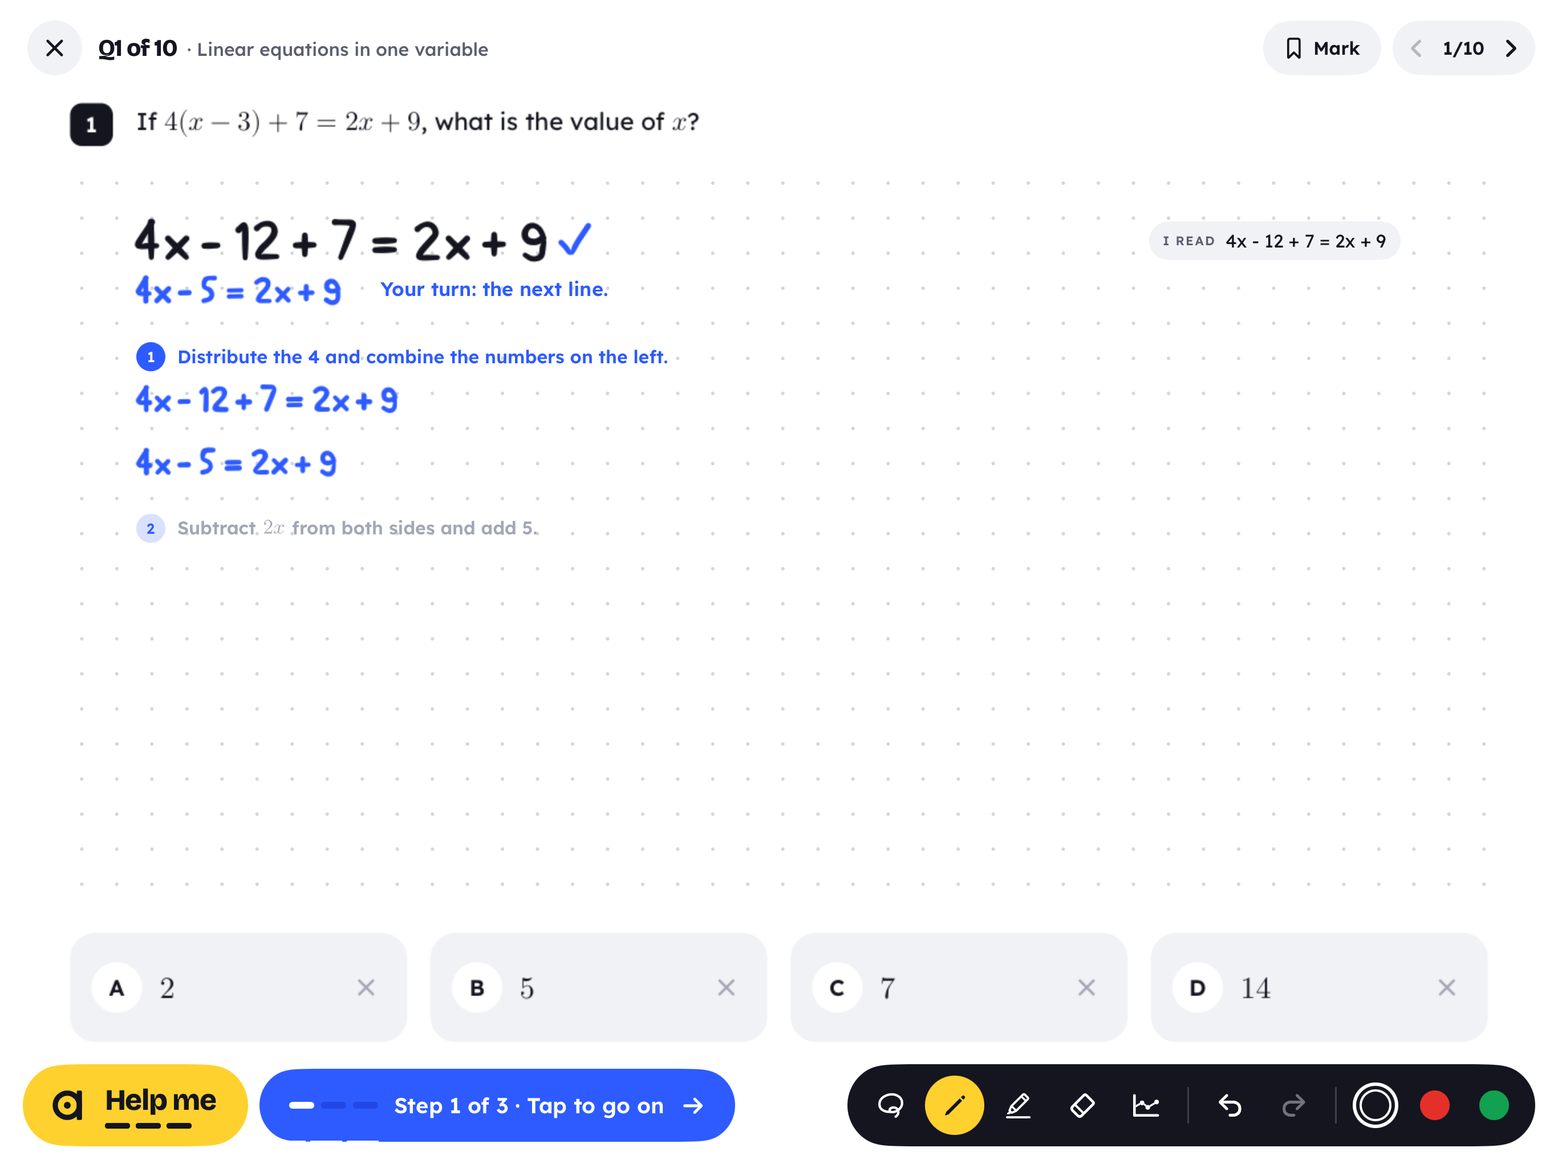
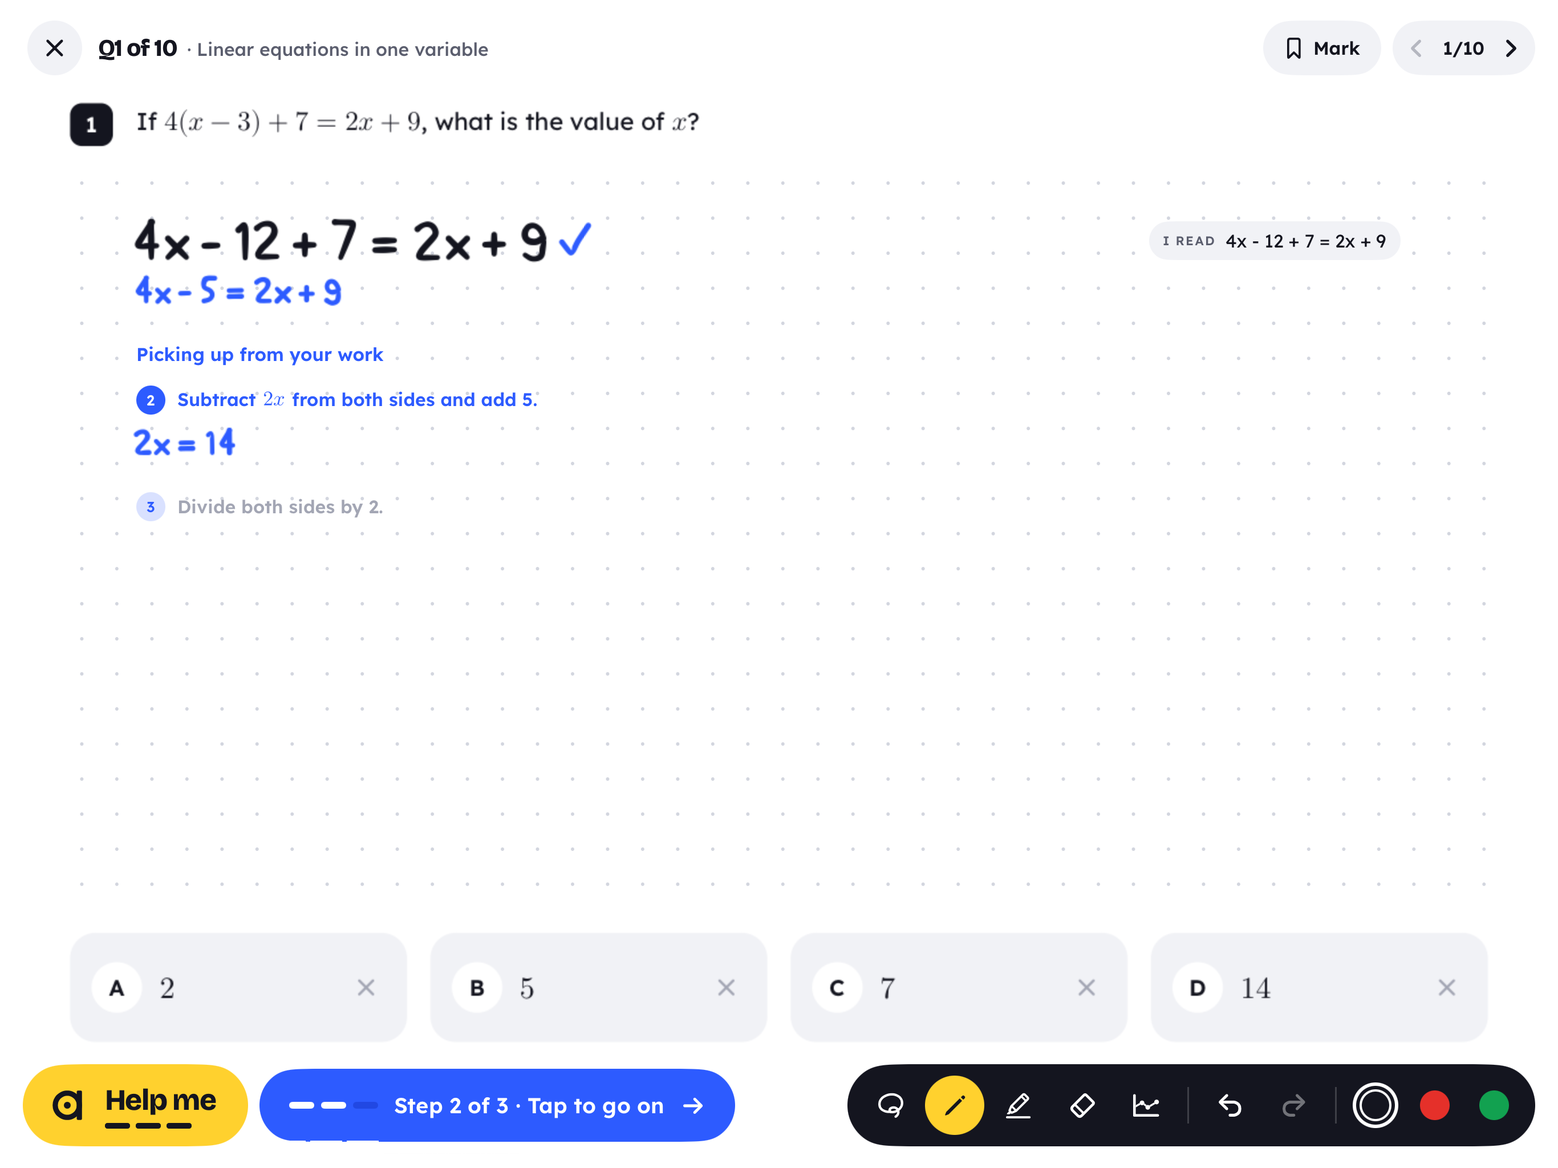
feat(sat2): the walk-through picks up from the work (leaves out the steps on the page: the student's matched lines and rung 2's step; 'Picking up from your work'; rung 2's 'Your turn' goes); SAT home's Right today and the deck's cards name the due skills (today.correct, reviews_due_skills from 43f8b

Changed region(s): [[0.0622, 0.2812, 0.4356, 0.4688], [0.3111, 0.2188, 0.3734, 0.25]]

diff --git a/ios/Packages/AgathonSAT/Sources/AgathonSATCore/Model/SATReplies.swift b/ios/Packages/AgathonSAT/Sources/AgathonSATCore/Model/SATReplies.swift
@@ -131,8 +131,11 @@ public struct SATProgress: Codable, Hashable, Sendable {
         public var tutorUsed: Int
         public var cap: Int
         public var unlimited: Bool
+        /// right today (v2, optional: nil from a server without it)
+        public var correct: Int?
 
-        public init(answered: Int, tutorUsed: Int, cap: Int, unlimited: Bool) {
+        public init(answered: Int, tutorUsed: Int, cap: Int, unlimited: Bool, correct: Int? = nil) {
+            self.correct = correct
             self.answered = answered
             self.tutorUsed = tutorUsed
             self.cap = cap
@@ -142,7 +145,7 @@ public struct SATProgress: Codable, Hashable, Sendable {
         enum CodingKeys: String, CodingKey {
             case answered
             case tutorUsed = "tutor_used"
-            case cap, unlimited
+            case cap, unlimited, correct
         }
 
         public init(from decoder: Decoder) throws {
@@ -151,6 +154,7 @@ public struct SATProgress: Codable, Hashable, Sendable {
             tutorUsed = try c.decodeIfPresent(Int.self, forKey: .tutorUsed) ?? 0
             cap = try c.decodeIfPresent(Int.self, forKey: .cap) ?? SATLimits.freeTutorPerDay
             unlimited = try c.decodeIfPresent(Bool.self, forKey: .unlimited) ?? false
+            correct = (try? c.decodeIfPresent(Int.self, forKey: .correct)) ?? nil
         }
 
         /// Free tutor questions left today (nil with Unlimited).
@@ -183,10 +187,13 @@ public struct SATProgress: Codable, Hashable, Sendable {
     /// a server without the deck)
     public var reviewsDue: Int?
     public var reviewsWaiting: Int?
+    /// the skills of the reviews due today, the soonest first (v2, optional): the deck's cards name them
+    public var reviewsDueSkills: [String]?
 
     public init(answered: Int = 0, correct: Int = 0, byDomain: [DomainCount] = [], bySkill: [SkillCount] = [], streakDays: Int = 0,
                 today: Today = Today(answered: 0, tutorUsed: 0, cap: SATLimits.freeTutorPerDay, unlimited: false), estimate: Estimate? = nil,
-                reviewsDue: Int? = nil, reviewsWaiting: Int? = nil) {
+                reviewsDue: Int? = nil, reviewsWaiting: Int? = nil, reviewsDueSkills: [String]? = nil) {
+        self.reviewsDueSkills = reviewsDueSkills
         self.reviewsDue = reviewsDue
         self.reviewsWaiting = reviewsWaiting
         self.answered = answered
@@ -206,6 +213,20 @@ public struct SATProgress: Codable, Hashable, Sendable {
         case today, estimate
         case reviewsDue = "reviews_due"
         case reviewsWaiting = "reviews_waiting"
+        case reviewsDueSkills = "reviews_due_skills"
+    }
+
+    /// A skill of a due review: its name, or `{"skill": name}`.
+    struct DueSkill: Decodable {
+        let name: String?
+        enum K: String, CodingKey { case skill }
+        init(from decoder: Decoder) throws {
+            if let s = try? decoder.singleValueContainer().decode(String.self) {
+                name = s
+            } else {
+                name = try? decoder.container(keyedBy: K.self).decode(String.self, forKey: .skill)
+            }
+        }
     }
 
     public init(from decoder: Decoder) throws {
@@ -219,6 +240,7 @@ public struct SATProgress: Codable, Hashable, Sendable {
         estimate = try? c.decodeIfPresent(Estimate.self, forKey: .estimate)
         reviewsDue = (try? c.decodeIfPresent(Int.self, forKey: .reviewsDue)) ?? nil
         reviewsWaiting = (try? c.decodeIfPresent(Int.self, forKey: .reviewsWaiting)) ?? nil
+        reviewsDueSkills = ((try? c.decodeIfPresent([Lossy<DueSkill>].self, forKey: .reviewsDueSkills)) ?? nil)?.compactMap { $0.value?.name }
     }
 
     /// A domain's count (zero when none answered).

diff --git a/ios/Agathon/Screens/SAT/SATSessionModel.swift b/ios/Agathon/Screens/SAT/SATSessionModel.swift
@@ -76,6 +76,8 @@ final class SATSessionModel: ObservableObject {
         /// where the next step goes (page units)
         var cursor: Vec2
         var column: Int = 0
+        /// steps already on the page (the student's, or the tutor's at rung 2): not drawn again
+        var skip: Set<Int> = []
     }
 
     @Published private(set) var phase: Phase = .loading
@@ -883,10 +885,25 @@ final class SATSessionModel: ObservableObject {
         if practice.index != i { show(i) }
         practice.updateLadder(at: i) { $0.reach(.walkthrough) }
         let layout = printer(i).layout
+        let steps = practice.questions[i].solution.steps
+        // the steps on the page already are not drawn again (the student's, matched to the bank's,
+        // and the one given at rung 2); the walk picks up at the first one still to do
+        let read = tutorOnHere ? tutor?.loop.readLines.map(\.latex) ?? [] : []
+        let skip = SATHintLadder.stepsOnThePage(steps, studentLines: read, written: practice.items[i].ladder.written)
+        let first = steps.indices.first { !skip.contains($0) } ?? steps.count
+        guard first < steps.count else {
+            notice = SATCopy.noMoreSteps
+            return
+        }
         // from the top of the stem's column, or under what is written there already
-        let start = Vec2(style.stemX, columnBottom(on: screen).map { $0 + 40 } ?? layout.workTop + 16)
-        walk = Walk(screen: screen, question: i, shown: 0, count: practice.questions[i].solution.steps.count, cursor: start)
-        words.removeAll { $0.screen == screen && $0.id.hasPrefix("walk:") }
+        var start = Vec2(style.stemX, columnBottom(on: screen).map { $0 + 40 } ?? layout.workTop + 16)
+        // the walk's pill says what to do now: rung 2's "Your turn" goes
+        words.removeAll { $0.screen == screen && ($0.id.hasPrefix("walk:") || $0.kind == .yourTurn) }
+        if first > 0 {
+            words.append(PageWords(id: "walk:\(i):pickup", screen: screen, kind: .pickup, text: SATCopy.pickingUp, at: start))
+            start.y += 44
+        }
+        walk = Walk(screen: screen, question: i, shown: first, count: steps.count, cursor: start, skip: skip)
         goOnWalk()
     }
 
@@ -894,6 +911,12 @@ final class SATSessionModel: ObservableObject {
     func goOnWalk() {
         guard var w = walk else { return }
         let q = practice.questions[w.question]
+        guard w.shown < w.count else {
+            walk = nil
+            return
+        }
+        // past the steps on the page already
+        while w.shown < w.count && w.skip.contains(w.shown) { w.shown += 1 }
         guard w.shown < w.count else {
             walk = nil
             return
@@ -936,9 +959,10 @@ final class SATSessionModel: ObservableObject {
         w.cursor = next
         walk = w
         let q = practice.questions[i]
-        if w.shown < w.count {
-            words.append(PageWords(id: "walk:\(i):waiting", screen: w.screen, kind: .caption(number: w.shown + 1, waiting: true),
-                                   text: q.solution.steps[w.shown].text, at: next))
+        // the next step still to do (past the ones on the page)
+        if let n = (w.shown..<w.count).first(where: { !w.skip.contains($0) }) {
+            words.append(PageWords(id: "walk:\(i):waiting", screen: w.screen, kind: .caption(number: n + 1, waiting: true),
+                                   text: q.solution.steps[n].text, at: next))
         }
     }
 

diff --git a/ios/AgathonUITests/SATSessionUITests.swift b/ios/AgathonUITests/SATSessionUITests.swift
@@ -134,13 +134,15 @@ final class SATSessionUITests: XCTestCase {
         XCTAssertFalse(element("sat.nudge").exists)
         snap("landscape-04-rung2-one-step")
         tap("sat.helpMe")
-        // rung 3: the walk-through, the Check replaced by its pill
+        // rung 3: the walk-through, the Check replaced by its pill; it picks up from the student's
+        // work (their line is step 1's), and rung 2's "Your turn" goes
         XCTAssertTrue(element("sat.walk.next").waitForExistence(timeout: 5))
         probe("rung 3", timeout: 5)
-        probe("walk 1/3", timeout: 10)
-        snap("landscape-05-rung3-walk")
-        tap("sat.walk.next")
         probe("walk 2/3", timeout: 10)
+        XCTAssertTrue(element("sat.walk.pickup").waitForExistence(timeout: 5))
+        probe("yourTurn no", timeout: 5)
+        XCTAssertFalse(element("sat.walk.caption.1").exists, "step 1 is on the page already")
+        snap("landscape-05-rung3-walk")
         tap("sat.walk.next")
         probe("walk 3/3", timeout: 10)
         tap("sat.walk.next")
@@ -166,6 +168,13 @@ final class SATSessionUITests: XCTestCase {
         probe("calls 0")
         XCTAssertTrue(element("sat.yourTurn").exists)
         snap("landscape-10b-capped-bank-step")
+        // rung 3 leaves out the step rung 2 gave: it starts at step 2
+        tap("sat.helpMe")
+        probe("walk 2/3", timeout: 10)
+        XCTAssertTrue(element("sat.walk.pickup").waitForExistence(timeout: 5))
+        XCTAssertFalse(element("sat.walk.caption.1").exists)
+        probe("yourTurn no", timeout: 5)
+        snap("landscape-10c-capped-walk-picks-up")
         // the capped line's button: the plan (a free account)
         tap("sat.tutor.capped")
     }
@@ -195,12 +204,13 @@ final class SATSessionUITests: XCTestCase {
         openSet()
         for _ in 2...4 { tap("sat.next") }
         waitFor("sat.position", label: "Q4 of 10", timeout: 10)
-        tap("sat.helpMe")
-        XCTAssertTrue(element("sat.nudge").waitForExistence(timeout: 5))
-        tap("sat.helpMe")
-        probe("yourTurn yes", timeout: 15)
-        tap("sat.helpMe")
+        // straight to the walk from a wrong answer's note: from step 1, nothing on the page yet
+        tap("sat.choice.B")
+        tap("sat.check")
+        XCTAssertTrue(element("sat.wrong").waitForExistence(timeout: 5))
+        tap("sat.wrong.walk")
         probe("walk 1/3", timeout: 10)
+        XCTAssertFalse(element("sat.walk.pickup").exists)
         // step 1 finds the slope from the two points: both ringed, the run and the rise drawn and sized
         probe("legs 4", timeout: 10)
         XCTAssertTrue(element("sat.walk.figureLabel").waitForExistence(timeout: 5))
@@ -253,6 +263,9 @@ final class SATSessionUITests: XCTestCase {
         launch(stub: "cap=20,used=8,bank=sample,reviews=2,answered=46")
         tap("home.sat", wait: 40)
         waitFor("sat.home.reviews", label: "2 to review", timeout: 20)
+        // the bank lane's /progress additions: right today, and the deck's cards name the skills
+        XCTAssertTrue(element("sat.home.rightToday").exists)
+        waitFor("sat.home.deck", label: "Linear equations in one variable", timeout: 5)
         snap("landscape-12-home")
         tap("sat.home.practice10")
         waitFor("sat.position", label: "Q1 of 10", timeout: 30)

diff --git a/ios/Packages/AgathonSAT/Sources/AgathonSAT/Home/SATHomeView.swift b/ios/Packages/AgathonSAT/Sources/AgathonSAT/Home/SATHomeView.swift
@@ -126,7 +126,8 @@ public struct SATHomeView: View {
                 }
                 if due > 0 && width >= 700 {
                     Spacer(minLength: 0)
-                    SATDeckCards(count: due).frame(width: 300, height: 200)
+                    SATDeckCards(count: due, skills: (progress?.reviewsDueSkills ?? []).map(SATTaxonomy.title(of:)))
+                        .frame(width: 300, height: 200)
                 }
             }
             HStack(alignment: .center, spacing: DS.Space.m) {
@@ -145,6 +146,8 @@ public struct SATHomeView: View {
             Rectangle().fill(DS.Color.line).frame(height: 1.5).padding(.vertical, DS.Space.m)
             HStack(alignment: .top, spacing: DS.Space.xl) {
                 stat(SATCopy.answeredTodayShort, "\(today?.answered ?? 0)", id: "sat.home.answered")
+                // (a server without `today.correct` shows no "Right today")
+                if let right = today?.correct { stat(SATCopy.rightToday, "\(right)", id: "sat.home.rightToday") }
                 tutorStat(today)
             }
             if failed {
@@ -353,6 +356,8 @@ public struct SATHomeView: View {
 /// "DUE TODAY" and how many.
 struct SATDeckCards: View {
     let count: Int
+    /// the due reviews' skills (`reviews_due_skills`), most missed first; empty: the count instead
+    var skills: [String] = []
 
     var body: some View {
         ZStack(alignment: .topLeading) {
@@ -360,14 +365,25 @@ struct SATDeckCards: View {
             RoundedRectangle(cornerRadius: 26, style: .continuous).fill(SATChromeColor.guide).frame(width: 260, height: 140).offset(x: 18, y: 26)
             VStack(alignment: .leading, spacing: 10) {
                 Text(SATCopy.dueToday).dsFont(.label).foregroundStyle(DS.Color.inkSecondary)
-                Text(SATCopy.dueCount(count)).dsFont(.button, size: 19).foregroundStyle(DS.Color.ink)
+                if skills.isEmpty {
+                    Text(SATCopy.dueCount(count)).dsFont(.button, size: 19).foregroundStyle(DS.Color.ink)
+                } else {
+                    // the front card names the most-missed skill; the others under it, quieter
+                    Text(skills[0]).dsFont(.button, size: 19).foregroundStyle(DS.Color.ink).lineLimit(2)
+                        .accessibilityIdentifier("sat.home.deckSkill")
+                    if skills.count > 1 {
+                        Text(skills.dropFirst().joined(separator: " · ")).dsFont(.callout, size: 15).foregroundStyle(DS.Color.inkSecondary)
+                            .lineLimit(2)
+                    }
+                }
             }
             .padding(24)
             .frame(width: 260, height: 140, alignment: .topLeading)
             .background(RoundedRectangle(cornerRadius: 26, style: .continuous).fill(DS.Color.surfaceSunken))
             .offset(x: 36, y: 56)
         }
-        .accessibilityHidden(true)
+        .accessibilityElement(children: .combine)
+        .accessibilityIdentifier("sat.home.deck")
     }
 }
 #endif

diff --git a/ios/Packages/AgathonSAT/Sources/AgathonSATCore/Services/SATStubService.swift b/ios/Packages/AgathonSAT/Sources/AgathonSATCore/Services/SATStubService.swift
@@ -141,13 +141,19 @@ public final class SATStubService: SATService, @unchecked Sendable {
                 estimate = SATProgress.Estimate(low: max(200, r10(mid - half)), high: min(800, r10(mid + half)),
                                                 note: "From \(answered) practice questions. A rough estimate, not a score.")
             }
-            let today = SATProgress.Today(answered: _attempts.count, tutorUsed: usedBefore + passes.count, cap: cap, unlimited: unlimited)
+            let today = SATProgress.Today(answered: _attempts.count, tutorUsed: usedBefore + passes.count, cap: cap, unlimited: unlimited,
+                                          correct: _attempts.filter(\.correct).count)
+            // the due reviews' skills, distinct, at most 3 (the server's `reviews_due_skills`)
+            var dueSkills: [String] = []
+            for q in bank.prefix(reviewsDue) where !reviewed.contains(q.id) && !dueSkills.contains(q.skill) && dueSkills.count < 3 {
+                dueSkills.append(q.skill)
+            }
             return SATProgress(
                 answered: answered, correct: right,
                 byDomain: SATDomain.allCases.compactMap { d in domains[d].map { SATProgress.DomainCount(domain: d, answered: $0.answered, correct: $0.correct) } },
                 bySkill: SATTaxonomy.skills.compactMap { s in skills[s.name].map { SATProgress.SkillCount(domain: $0.0, skill: s.name, answered: $0.1.answered, correct: $0.1.correct) } },
                 streakDays: answered > 0 ? 1 : 0, today: today, estimate: estimate,
-                reviewsDue: max(0, reviewsDue - reviewed.count), reviewsWaiting: reviewsWaiting)
+                reviewsDue: max(0, reviewsDue - reviewed.count), reviewsWaiting: reviewsWaiting, reviewsDueSkills: dueSkills)
         }
     }
 }

diff --git a/ios/Packages/AgathonSAT/Tests/AgathonSATCoreTests/V2FieldsTests.swift b/ios/Packages/AgathonSAT/Tests/AgathonSATCoreTests/V2FieldsTests.swift
@@ -86,6 +86,17 @@ struct V2FieldsTests {
         let old = try JSONDecoder().decode(SATProgress.self, from: Data(#"{"answered":3,"correct":1}"#.utf8))
         #expect(old.reviewsDue == nil)
         #expect(old.reviewsWaiting == nil)
+        #expect(old.reviewsDueSkills == nil && old.today.correct == nil)
+        // the bank lane's additions (43f8bdd6): right today, the due reviews' skills
+        let more = try JSONDecoder().decode(SATProgress.self, from: Data(#"""
+        {"answered":12,"correct":9,"today":{"answered":12,"correct":9,"tutor_used":8,"cap":20,"unlimited":false},
+         "reviews_due":3,"reviews_waiting":1,"reviews_due_skills":["circles","systems of two linear equations"]}
+        """#.utf8))
+        #expect(more.today.correct == 9)
+        #expect(more.reviewsDueSkills == ["circles", "systems of two linear equations"])
+        let none = try JSONDecoder().decode(SATProgress.self, from: Data(#"{"reviews_due":0,"reviews_due_skills":[],"today":{"correct":"x"}}"#.utf8))
+        #expect(none.reviewsDueSkills == [])
+        #expect(none.today.correct == nil, "a malformed count is none")
     }
 
     /// The hand-filled fixtures: every why on a wrong choice only, no nudge that gives the answer away.

diff --git a/ios/Packages/AgathonSAT/Tests/AgathonSATCoreTests/PageLayoutTests.swift b/ios/Packages/AgathonSAT/Tests/AgathonSATCoreTests/PageLayoutTests.swift
@@ -280,6 +280,17 @@ struct HintLadderTests {
         #expect(SATHintLadder.nextBankStep(steps, studentLines: ["x=7"], written: []) == nil)
     }
 
+    @Test func theWalkThroughLeavesOutTheStepsOnThePage() throws {
+        let steps = try #require(SATFixtures.question("algebra-linear-one-var-9001")).solution.steps
+        // nothing written: all three to draw
+        #expect(SATHintLadder.stepsOnThePage(steps, studentLines: [], written: []).isEmpty)
+        // the student wrote step 2's line: steps 1 and 2 are done (step 1 is in it)
+        #expect(SATHintLadder.stepsOnThePage(steps, studentLines: ["2x = 14"], written: []) == [0, 1])
+        // rung 2 gave step 1
+        #expect(SATHintLadder.stepsOnThePage(steps, studentLines: [], written: [0]) == [0])
+        #expect(SATHintLadder.stepsOnThePage(steps, studentLines: ["4x-5=2x+9"], written: [1]) == [0, 1])
+    }
+
     @Test func theWalkthroughGoesStepByStep() {
         var l = SATHintLadder()
         #expect(l.nextWalkStep(count: 3) == 0)

diff --git a/ios/Packages/AgathonSAT/Sources/AgathonSAT/Session/SATNotes.swift b/ios/Packages/AgathonSAT/Sources/AgathonSAT/Session/SATNotes.swift
@@ -165,6 +165,8 @@ public struct SATPageWords: View {
         case caption(number: Int, waiting: Bool)
         /// a size on the figure (the walk-through's rise and run)
         case figureLabel
+        /// the walk-through's first words when it starts after work already on the page
+        case pickup
     }
 
     let kind: Kind
@@ -185,6 +187,12 @@ public struct SATPageWords: View {
                 .foregroundStyle(DS.Color.tutorInk)
                 .fixedSize()
                 .accessibilityIdentifier("sat.yourTurn")
+        case .pickup:
+            Text(text)
+                .font(.custom(DSFonts.uiPostScriptName(weight: 600), fixedSize: 19 * k))
+                .foregroundStyle(DS.Color.tutorInk)
+                .fixedSize()
+                .accessibilityIdentifier("sat.walk.pickup")
         case .figureLabel:
             Text(text)
                 .font(.custom(DSFonts.uiPostScriptName(weight: 600), fixedSize: 26 * k))

diff --git a/ios/Packages/AgathonSAT/Sources/AgathonSAT/Support/SATCopy.swift b/ios/Packages/AgathonSAT/Sources/AgathonSAT/Support/SATCopy.swift
@@ -148,6 +148,7 @@ public enum SATCopy {
     public static func seeMissed(_ n: Int) -> String { "See the \(n) missed" }
     public static let graphField = "Graph an equation"
     public static let noMoreSteps = "That's the whole solution."
+    public static let pickingUp = "Picking up from your work"
 
     // v2: the end of a set and SAT home (docs/sat2/DESIGN-NOTES.md frames 11 and 12)
     public static let mixedPractice = "Mixed practice"
@@ -167,6 +168,7 @@ public enum SATCopy {
     public static let dueToday = "DUE TODAY"
     public static func dueCount(_ n: Int) -> String { n == 1 ? "1 question" : "\(n) questions" }
     public static let answeredTodayShort = "Answered today"
+    public static let rightToday = "Right today"
     public static let freeTutorLeft = "Free tutor left today"
     public static func ofCap(_ left: Int, _ cap: Int) -> String { "\(left) of \(cap)" }
     public static let progressLabel = "PROGRESS"

diff --git a/ios/Packages/AgathonSAT/Sources/AgathonSATCore/Logic/SATHintLadder.swift b/ios/Packages/AgathonSAT/Sources/AgathonSATCore/Logic/SATHintLadder.swift
@@ -47,6 +47,17 @@ public struct SATHintLadder: Hashable, Sendable {
         return n < count ? n : nil
     }
 
+    // MARK: - the walk-through picks up from the work
+
+    /// The steps the walk-through leaves out because they are on the page already: every step up to
+    /// the last one the student's lines match, and the ones the tutor wrote at rung 2.
+    public static func stepsOnThePage(_ steps: [SATSolution.Step], studentLines: [String], written: Set<Int>) -> Set<Int> {
+        let lines = Set(studentLines.map(key).filter { !$0.isEmpty })
+        var done = Set<Int>()
+        for (i, step) in steps.enumerated() where matches(step, lines) { done.formUnion(0...i) }
+        return done.union(written.filter { steps.indices.contains($0) })
+    }
+
     // MARK: - the bank's next step (rung 2 without the live tutor)
 
     /// The bank step to write next: the first after the last one the student's lines already match,

diff --git a/ios/AgathonTests/SATSessionTests.swift b/ios/AgathonTests/SATSessionTests.swift
@@ -199,8 +199,11 @@ struct SATSessionTests {
         #expect(c.store.records.values.contains { if case .stroke(let s) = $0 { return s.author == .tutor } else { return false } } || true)
         #expect(model.quiet?.calls == 0, "no live call: the bank's step")
         model.helpMe()
-        #expect(model.walk?.shown == 1)
-        model.goOnWalk()
+        // the walk leaves out step 1 (rung 2 gave it), picks up at step 2, and "Your turn" goes
+        #expect(model.walk?.shown == 2)
+        #expect(model.words.contains { $0.kind == .pickup })
+        #expect(!model.words.contains { $0.kind == .yourTurn })
+        #expect(!model.words.contains { $0.id.hasSuffix(":0") && $0.id.hasPrefix("walk:") })
         model.goOnWalk()
         #expect(model.walk?.shown == 3)
         model.goOnWalk()
